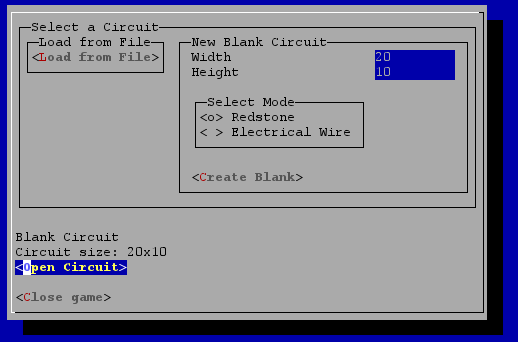
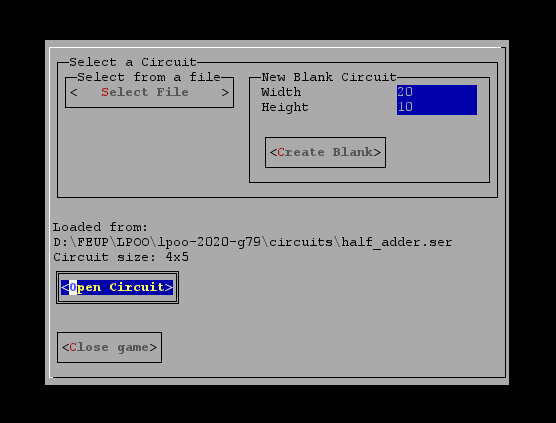
New screenshots for the README

diff --git a/docs/README.md b/docs/README.md
@@ -102,14 +102,27 @@ It is via the menu that you can create a new circuit or load existing circuits.
 ### Screenshots
 TODO: UPDOOT ALL OF THIS
 #### Lanterna Menu
+The starting menu, with a circuit being loaded from a file.
+
 ![Lanterna Menu Screenshot](./images/screenshots/lanterna/LanternaMenu.png)
 
 #### Existing Tiles
 ![Existing Tiles Screenshot](./images/screenshots/lanterna/ExistingTiles.png)  
 From left to right, top to bottom:  
 1. *Wire* and demonstration of all possible connections the wire can have.  
-2. *Constant Source*, *Lever* (not active), *Lever* (active), *Repeater*, *NOT Gate*, *AND Gate*, *OR Gate*, *NAND Gate*, *NOR Gate*, *XOR Gate*, *XNOR Gate*.
-3. Demonstration of decaying power on the wire, changing the intensity of its colour and current selected tile shown with magenta background.
+1. *Constant Source*, *Lever* (not active), *Lever* (active), *Repeater*, *NOT Gate*, *AND Gate*, *OR Gate*, *NAND Gate*, *NOR Gate*, *XOR Gate*, *XNOR Gate*.
+1. *Comparator* (comparison), *Comparator* (subtract) , *Digit* (receiving power), *Digit* (not receiving), *Counter*, *Timer* (pulse mode), *Timer* (switch mode), *IO Tile* (incative facing up), *IO Tile* (outputting to the right), *IO Tile* (inputting from down), *Custom Tile* (one possible).
+1. Demonstration of decaying power on the wire, changing the intensity of its colour and current selected tile shown with magenta background.
+
+#### Help Menu
+The help menu accessible from a circuit by pressing `H`.
+
+![Help Menu Screenshot](./images/screenshots/lanterna/help_menu.png)
+
+#### Info Menu
+Every Tile has a string of information relating to its internal state, here's the most complex one, from a subcircuit.
+
+![Circuit Tile Screenshot](./images/screenshots/lanterna/subcircuit_info.png)
 
 ## Planned Features
 - [x] Create circuits
